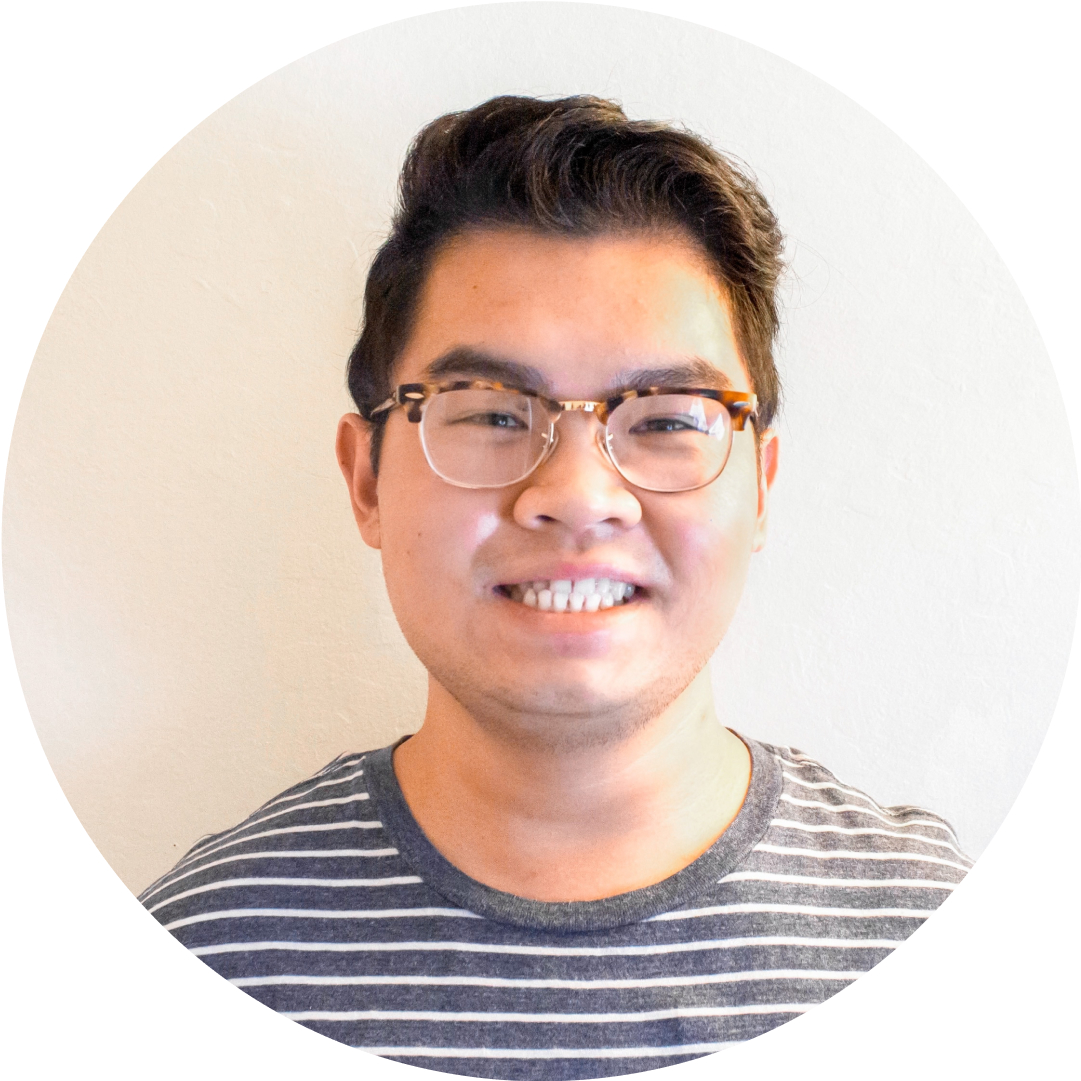
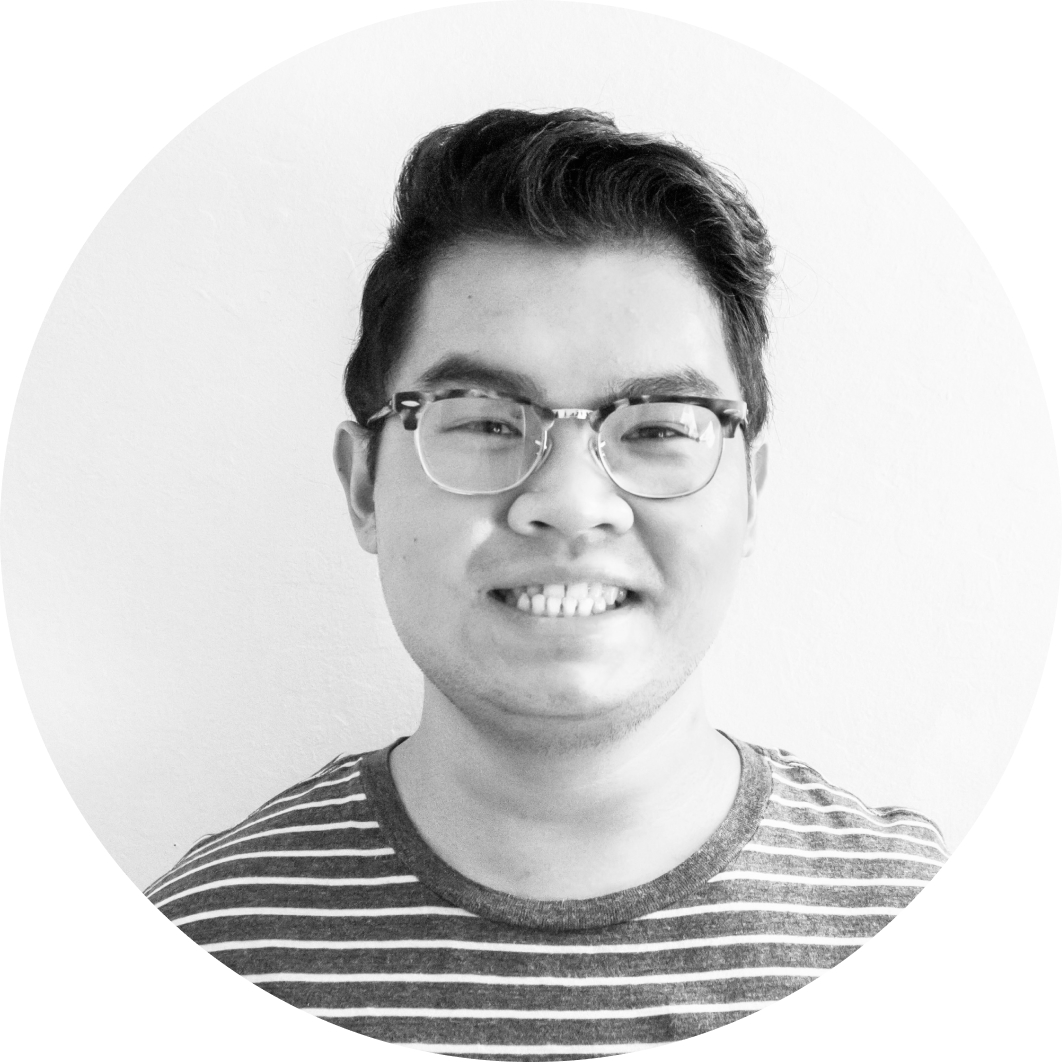
Edit hero image

diff --git a/src/sections/Title/Title.module.css b/src/sections/Title/Title.module.css
@@ -68,7 +68,7 @@
   transition: all 0.25s ease;
   filter: saturate(0);
   border-radius: 50%;
-  border: 10px solid #4A74E1;
+  border: 8px solid #4A74E1;
 }
 
 .hero:hover {
